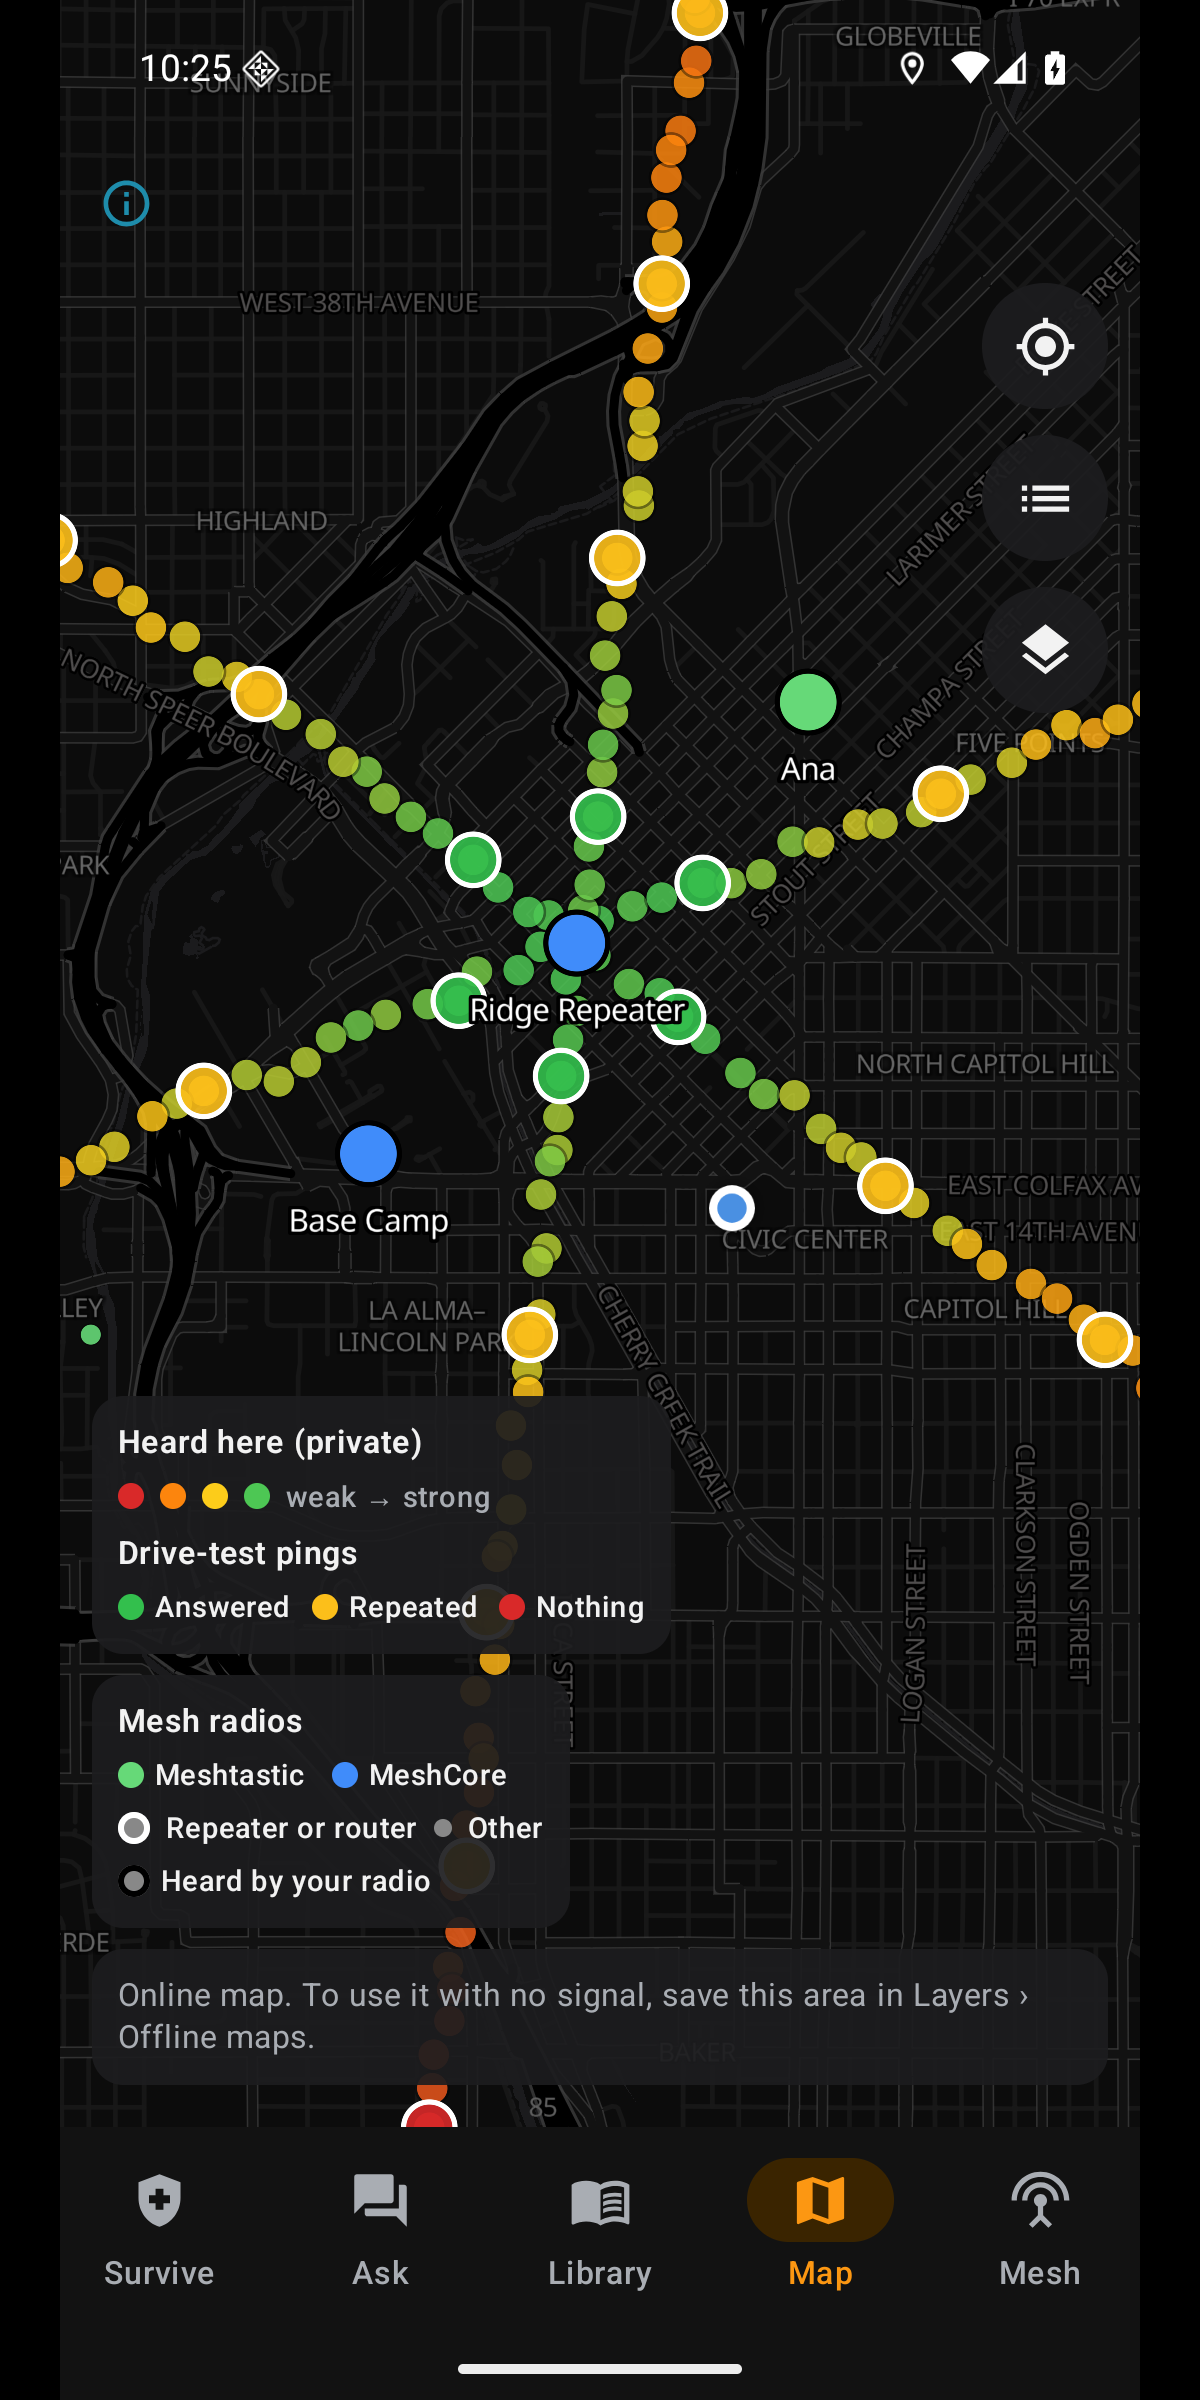
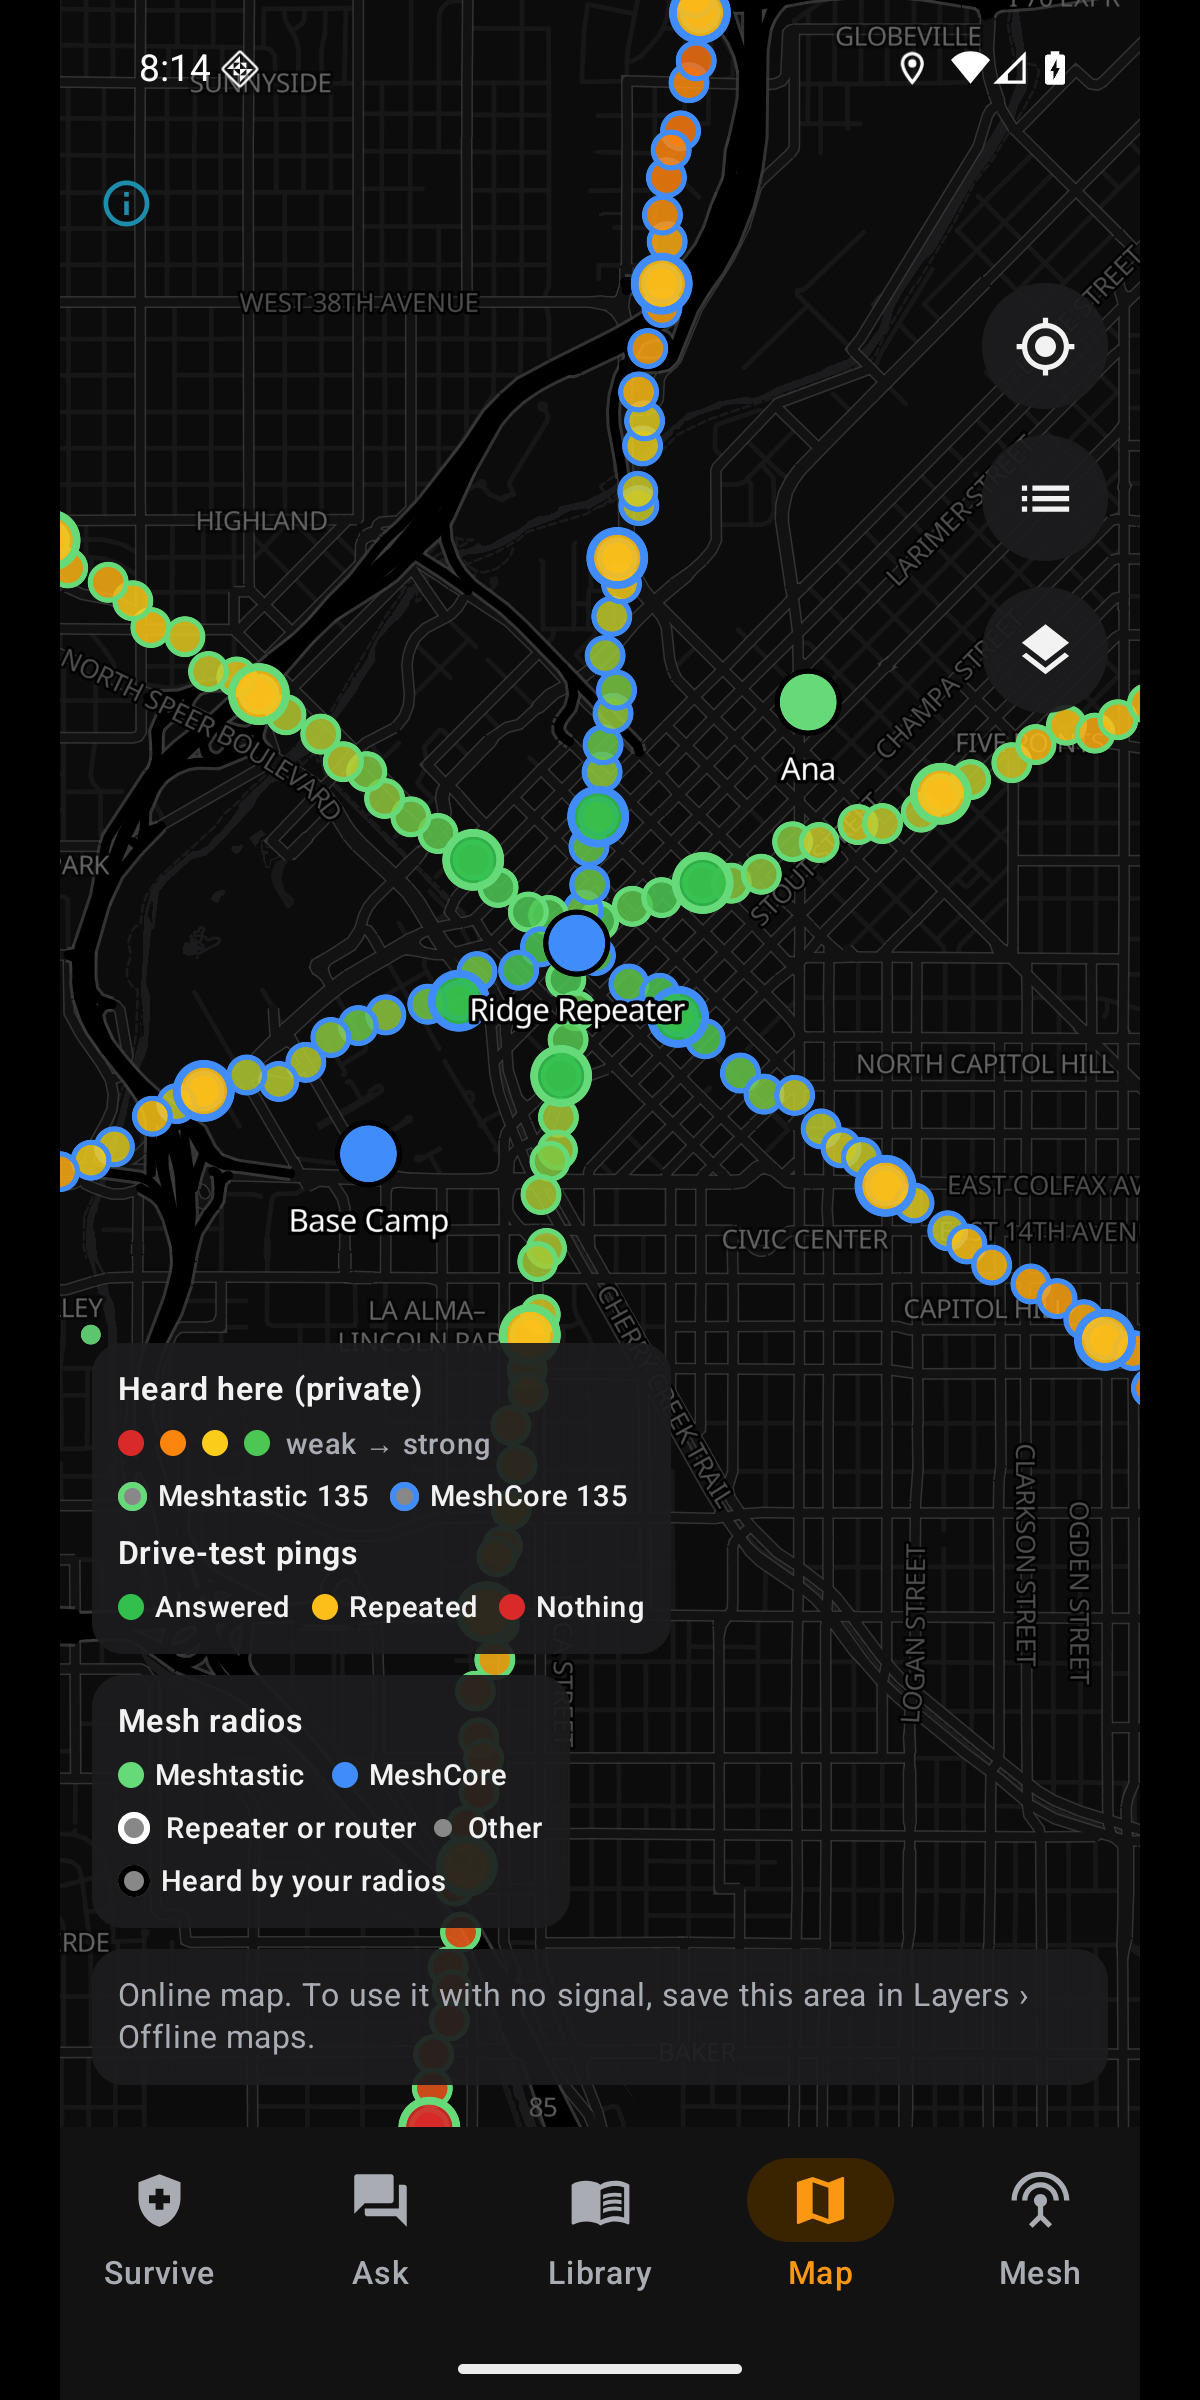
Screenshots: two radios and both-network coverage

diff --git a/docs/android/index.html b/docs/android/index.html
@@ -42,12 +42,13 @@
     <p>Watches can't install an APK from a browser, so this takes a computer with <a href="https://developer.android.com/tools/releases/platform-tools">Android's platform tools</a> (free) on the same Wi-Fi as the watch:</p>
     <div style="margin-top:12px"><ol class="steps"><li>On the watch: Settings › System › About › tap <b>Build number</b> seven times to turn on Developer options.</li><li>Settings › Developer options: turn on <b>ADB debugging</b> and <b>Wireless debugging</b>, then tap <b>Pair new device</b>.</li><li>On the computer: <code>adb pair IP:PORT</code> with the address and code the watch shows.</li><li>Then <code>adb connect IP:PORT</code> with the address on the Wireless debugging screen.</li><li>Then <code>adb install pocket-nomad-wear.apk</code>, and turn Wireless debugging back off.</li></ol></div>
     <p class="note">When the Google Play version is live, the watch app will install from Play on the watch instead.</p>
+    <div style="margin-top:18px"><div class="shots" style="display:grid;grid-template-columns:repeat(auto-fill,minmax(150px,1fr));gap:12px"><img loading="lazy" src="../appstore/wear-home.png" alt="Watch home"><img loading="lazy" src="../appstore/wear-sos.png" alt="SOS light"><img loading="lazy" src="../appstore/wear-compass.png" alt="Compass"><img loading="lazy" src="../appstore/wear-firstaid.png" alt="First aid"></div></div>
   </div>
 </section><section>
   <div class="wrap">
     <h2>Screenshots</h2>
     
-    <div class="shots" style="display:grid;grid-template-columns:repeat(auto-fill,minmax(150px,1fr));gap:12px"><img loading="lazy" src="../appstore/android-1-survive.png" alt="Survive: emergency guides and tools"><img loading="lazy" src="../appstore/android-9-ask.png" alt="Ask: an answer from the guides, with sources"><img loading="lazy" src="../appstore/android-10-library.png" alt="Library: Get Content from Kiwix"><img loading="lazy" src="../appstore/android-2-guide.png" alt="A first-aid guide"><img loading="lazy" src="../appstore/android-3-water.png" alt="Water purifier"><img loading="lazy" src="../appstore/android-4-compass.png" alt="Compass and MGRS position"><img loading="lazy" src="../appstore/android-6-map.png" alt="Map with coverage, pings and mesh radios (demo data)"><img loading="lazy" src="../appstore/android-7-mesh.png" alt="Mesh tab"><img loading="lazy" src="../appstore/android-8-settings.png" alt="Settings and privacy"></div>
+    <div class="shots" style="display:grid;grid-template-columns:repeat(auto-fill,minmax(150px,1fr));gap:12px"><img loading="lazy" src="../appstore/android-1-survive.png" alt="Survive: emergency guides and tools"><img loading="lazy" src="../appstore/android-9-ask.png" alt="Ask: an answer from the guides, with sources"><img loading="lazy" src="../appstore/android-10-library.png" alt="Library: Get Content from Kiwix"><img loading="lazy" src="../appstore/android-2-guide.png" alt="A first-aid guide"><img loading="lazy" src="../appstore/android-3-water.png" alt="Water purifier"><img loading="lazy" src="../appstore/android-4-compass.png" alt="Compass and MGRS position"><img loading="lazy" src="../appstore/android-12-coverage-both.png" alt="Coverage, pings and radios from both networks (demo data)"><img loading="lazy" src="../appstore/android-11-two-radios.png" alt="Mesh tab with two radios connected"><img loading="lazy" src="../appstore/android-8-settings.png" alt="Settings and privacy"></div>
   </div>
 </section><section>
   <div class="wrap">

diff --git a/App/Sources/Mesh/MeshService.swift b/App/Sources/Mesh/MeshService.swift
@@ -529,6 +529,10 @@ final class MeshService {
     func handle(_ event: MeshTransportEvent) {
         switch event {
         case .availability(let a):
+            #if DEBUG
+            // The demo radios stay "connected" on a simulator, which has no Bluetooth.
+            if demoRadios { availability = .poweredOn; return }
+            #endif
             availability = a
             if a != .poweredOn {
                 for l in links {
@@ -1113,6 +1117,37 @@ final class MeshService {
                 n.lastHeard = Date().addingTimeInterval(-Double(i) * 420)
                 n.meshCoreType = d.3
             }
+        }
+    }
+
+    /// Set by `loadDemoRadios`; Bluetooth state changes are then ignored.
+    private var demoRadios = false
+
+    /// Screenshots (debug builds only): both radios shown as connected, with a message
+    /// on each network. There is no real radio behind either link.
+    func loadDemoRadios() {
+        demoRadios = true
+        availability = .poweredOn
+        let demo: [(MeshFirmware, String, UInt32, String, UInt32?, String, String)] = [
+            (.meshtastic, "Demo Meshtastic", 0xB001, "LongFast", 84, "Ana", "Signal check from the creek"),
+            (.meshcore, "Demo MeshCore", 0xB002, "Public", nil, "Ridge Repeater", "Repeater back up after the storm"),
+        ]
+        for (firmware, name, num, channel, battery, sender, text) in demo {
+            let l = link(firmware)
+            l.deviceID = UUID()
+            l.deviceName = name
+            l.radio.firmware = firmware
+            l.radio.myNodeNum = num
+            l.radio.primaryChannelName = channel
+            l.update(num) { n in
+                n.longName = name
+                n.shortName = String(name.suffix(4))
+                n.batteryLevel = battery
+            }
+            l.connection = .connected(name: name)
+            messages.append(MeshMessage(packetID: num, from: 0xA000, to: MeshConstants.broadcastNum, channel: 0,
+                                        text: text, date: Date().addingTimeInterval(-600), isOutgoing: false,
+                                        delivery: .received, senderName: firmware == .meshcore ? sender : nil, network: firmware))
         }
     }
     #endif

diff --git a/App/Sources/App/NomadPocketApp.swift b/App/Sources/App/NomadPocketApp.swift
@@ -12,15 +12,17 @@ struct NomadPocketApp: App {
         CoverageStore.shared.start()
         WatchBridge.shared.start()
         #if DEBUG
-        // -screen map:demo (recordings) or map:shared (what sharing would publish); mesh:demo for the nodes alone
+        // -screen map:demo (recordings) or map:shared (what sharing would publish); mesh:demo for the nodes and two demo radios
         if let launch = LaunchScreen.parts(), launch.0 == "mesh", launch.1 == "demo" {
             MeshService.shared.loadDemoNodes()
+            MeshService.shared.loadDemoRadios()
         }
         if let launch = LaunchScreen.parts(), launch.0 == "map", launch.1 == "known" {
             // Real download from the community maps, kept around downtown Austin.
             Task { await KnownRadioStore.shared.download(around: .init(latitude: 30.2672, longitude: -97.7431), radiusKm: 100, areaName: nil) }
         } else if let launch = LaunchScreen.parts(), launch.0 == "map", !launch.1.isEmpty {
             MeshService.shared.loadDemoNodes()
+            MeshService.shared.loadDemoRadios()
             CoverageStore.shared.loadDemo()
             if launch.1 == "shared" { CoverageStore.shared.sharing = true }
             UserDefaults.standard.set(launch.1 == "shared" ? "shared" : "recorded", forKey: "map.coverage")
@@ -65,7 +67,7 @@ enum AppTab: Hashable { case survive, ask, library, map, mesh }
 /// screenshots and quick checks: survive, ask, library, map, mesh, settings,
 /// packs, book, tool:<compass|sos|morse|water|medicalID|checklists|sun>, guide:<file>,
 /// category:<id>, query:<text> (Survive search), ask:<question>, coverage (scanner
-/// settings), mesh:demo (demo nodes), map:demo / map:shared (demo nodes and
+/// settings), mesh:demo (demo nodes and two connected demo radios), map:demo / map:shared (demo nodes and
 /// coverage around Denver) and map:known (downloads known radios around Austin).
 enum LaunchScreen {
     static let value: String? = {

diff --git a/docs/ios/index.html b/docs/ios/index.html
@@ -37,7 +37,7 @@
   <div class="wrap">
     <h2>Screenshots</h2>
     
-    <div class="shots" style="display:grid;grid-template-columns:repeat(auto-fill,minmax(150px,1fr));gap:12px"><img loading="lazy" src="../appstore/iphone-1-survive.png" alt="Survive tab"><img loading="lazy" src="../appstore/iphone-2-guide.png" alt="Severe bleeding guide"><img loading="lazy" src="../appstore/iphone-3-ask.png" alt="Ask with sources"><img loading="lazy" src="../appstore/iphone-4-library.png" alt="Offline library"><img loading="lazy" src="../appstore/iphone-5-map.png" alt="Offline map"><img loading="lazy" src="../appstore/iphone-6-water.png" alt="Water purifier"><img loading="lazy" src="../appstore/watch-2-sos.png" alt="Apple Watch SOS"></div>
+    <div class="shots" style="display:grid;grid-template-columns:repeat(auto-fill,minmax(150px,1fr));gap:12px"><img loading="lazy" src="../appstore/iphone-1-survive.png" alt="Survive tab"><img loading="lazy" src="../appstore/iphone-2-guide.png" alt="Severe bleeding guide"><img loading="lazy" src="../appstore/iphone-3-ask.png" alt="Ask with sources"><img loading="lazy" src="../appstore/iphone-4-library.png" alt="Offline library"><img loading="lazy" src="../appstore/iphone-5-map.png" alt="Offline map"><img loading="lazy" src="../appstore/iphone-6-water.png" alt="Water purifier"><img loading="lazy" src="../appstore/iphone-7-mesh.png" alt="Two radios connected at once"><img loading="lazy" src="../appstore/iphone-8-coverage.png" alt="Coverage from both networks (demo data)"><img loading="lazy" src="../appstore/watch-2-sos.png" alt="Apple Watch SOS"></div>
   </div>
 </section><section>
   <div class="wrap">

diff --git a/docs/index.html b/docs/index.html
@@ -107,13 +107,15 @@
       <img loading="lazy" src="appstore/iphone-4-library.png" alt="Library of offline books">
       <img loading="lazy" src="appstore/iphone-5-map.png" alt="Offline street map">
       <img loading="lazy" src="appstore/iphone-6-water.png" alt="Water purifier: bleach dose calculator">
+      <img loading="lazy" src="appstore/iphone-7-mesh.png" alt="Mesh tab with a Meshtastic and a MeshCore radio connected at once">
+      <img loading="lazy" src="appstore/iphone-8-coverage.png" alt="Coverage map with both networks: green rings for Meshtastic, blue for MeshCore">
     </div>
     <div class="shots ipad" aria-label="iPad screenshots">
       <img src="appstore/ipad-1-survive.png" alt="Survive tab on iPad" loading="lazy">
       <img src="appstore/ipad-2-guide.png" alt="Severe bleeding guide on iPad" loading="lazy">
       <img src="appstore/ipad-3-ask.png" alt="Ask with sources on iPad" loading="lazy">
       <img src="appstore/ipad-4-library.png" alt="Library on iPad" loading="lazy">
-      <img src="appstore/ipad-5-map.png" alt="Offline map on iPad" loading="lazy">
+      <img src="appstore/ipad-7-two-radios.png" alt="iPad: two radios connected beside the coverage map of both networks" loading="lazy">
       <img src="appstore/ipad-6-water.png" alt="Water purifier on iPad" loading="lazy">
     </div>
   </div>

diff --git a/App/Sources/Mesh/MeshComponents.swift b/App/Sources/Mesh/MeshComponents.swift
@@ -237,6 +237,9 @@ struct MeshNetworkBadge: View {
         Text(network.displayName)
             .font(.caption.weight(.bold))
             .foregroundStyle(.black)
+            // Never wraps ("Mesh-tastic") in a narrow column; the name beside it truncates instead.
+            .lineLimit(1)
+            .fixedSize()
             .padding(.horizontal, 8).padding(.vertical, 3)
             .background(Capsule().fill(Color(uiColor: RadioColors.color(network))))
             .accessibilityLabel("\(network.displayName) network")

diff --git a/tools/build-site-pages.py b/tools/build-site-pages.py
@@ -132,7 +132,7 @@ IOS = page("ios", "Pocket Nomad for iPhone, iPad and Apple Watch",
       <div class="card"><span class="tag">Apple Watch</span><h3>Installs with the iPhone app</h3><p>Open the Watch app on your iPhone, find Pocket Nomad under Available Apps, and tap Install.</p></div>
     </div>""", "get")
     + section("Screenshots", "", shots([("iphone-1-survive.png", "Survive tab"), ("iphone-2-guide.png", "Severe bleeding guide"), ("iphone-3-ask.png", "Ask with sources"),
-        ("iphone-4-library.png", "Offline library"), ("iphone-5-map.png", "Offline map"), ("iphone-6-water.png", "Water purifier"), ("watch-2-sos.png", "Apple Watch SOS")]))
+        ("iphone-4-library.png", "Offline library"), ("iphone-5-map.png", "Offline map"), ("iphone-6-water.png", "Water purifier"), ("iphone-7-mesh.png", "Two radios connected at once"), ("iphone-8-coverage.png", "Coverage from both networks (demo data)"), ("watch-2-sos.png", "Apple Watch SOS")]))
     + section("Set it up before you need it", "Everything below needs a connection once; after that it all works with no signal.", steps([
         "<b>Install</b> Pocket Nomad from the App Store and open it once.",
         "<b>Medical ID:</b> Survive › Medical ID. Add allergies, medicines and who to call.",
@@ -174,10 +174,11 @@ ANDROID = page("android", "Pocket Nomad for Android",
         "Then <code>adb connect IP:PORT</code> with the address on the Wireless debugging screen.",
         "Then <code>adb install pocket-nomad-wear.apk</code>, and turn Wireless debugging back off.",
     ])}</div>
-    <p class="note">When the Google Play version is live, the watch app will install from Play on the watch instead.</p>""", "wear")
+    <p class="note">When the Google Play version is live, the watch app will install from Play on the watch instead.</p>
+    <div style="margin-top:18px">{shots([("wear-home.png", "Watch home"), ("wear-sos.png", "SOS light"), ("wear-compass.png", "Compass"), ("wear-firstaid.png", "First aid")])}</div>""", "wear")
     + section("Screenshots", "", shots([("android-1-survive.png", "Survive: emergency guides and tools"), ("android-9-ask.png", "Ask: an answer from the guides, with sources"), ("android-10-library.png", "Library: Get Content from Kiwix"), ("android-2-guide.png", "A first-aid guide"),
-        ("android-3-water.png", "Water purifier"), ("android-4-compass.png", "Compass and MGRS position"), ("android-6-map.png", "Map with coverage, pings and mesh radios (demo data)"),
-        ("android-7-mesh.png", "Mesh tab"), ("android-8-settings.png", "Settings and privacy")]))
+        ("android-3-water.png", "Water purifier"), ("android-4-compass.png", "Compass and MGRS position"), ("android-12-coverage-both.png", "Coverage, pings and radios from both networks (demo data)"),
+        ("android-11-two-radios.png", "Mesh tab with two radios connected"), ("android-8-settings.png", "Settings and privacy")]))
     + section("Google Play", "", """<div class="card"><span class="tag">Google Play</span><h3>Coming soon</h3><p>The Play Store listing is being prepared. This page will link to it when it's live.</p></div>""")
     + section("What's in it", "", """<ul class="check">
       <li><b>Survive:</b> the same 69 guides and 8 checklists as the iPhone app, compass with MGRS, SOS and Morse light with the flashlight, water purifier, Medical ID, daylight.</li>

diff --git a/store/PLAY.md b/store/PLAY.md
@@ -14,7 +14,7 @@ Everything Play Console asks for, in the order it asks. The listing text and ima
 | `images/phoneScreenshots/1-8.png` | Phone screenshots, 1200 x 2400 | 2-8 |
 | `images/wearScreenshots/1-7.png` | Wear OS screenshots, 454 x 454 | 1-8 |
 
-The screenshots are eight of `docs/appstore/android-*.png` (Survive, Ask, a guide, Library, water, map, mesh, compass) padded with the app's black background
+The screenshots are eight of `docs/appstore/android-*.png` (Survive, Ask, a guide, Library, water, the coverage map with both networks, two radios on the Mesh tab, compass) padded with the app's black background
 from 1080 x 2400 to 1200 x 2400, because Play rejects screenshots more than twice as tall
 as they are wide. The feature graphic is the store banner without the iPhone. All of these
 show the logo, so they are reserved artwork (see `NOTICE`).
